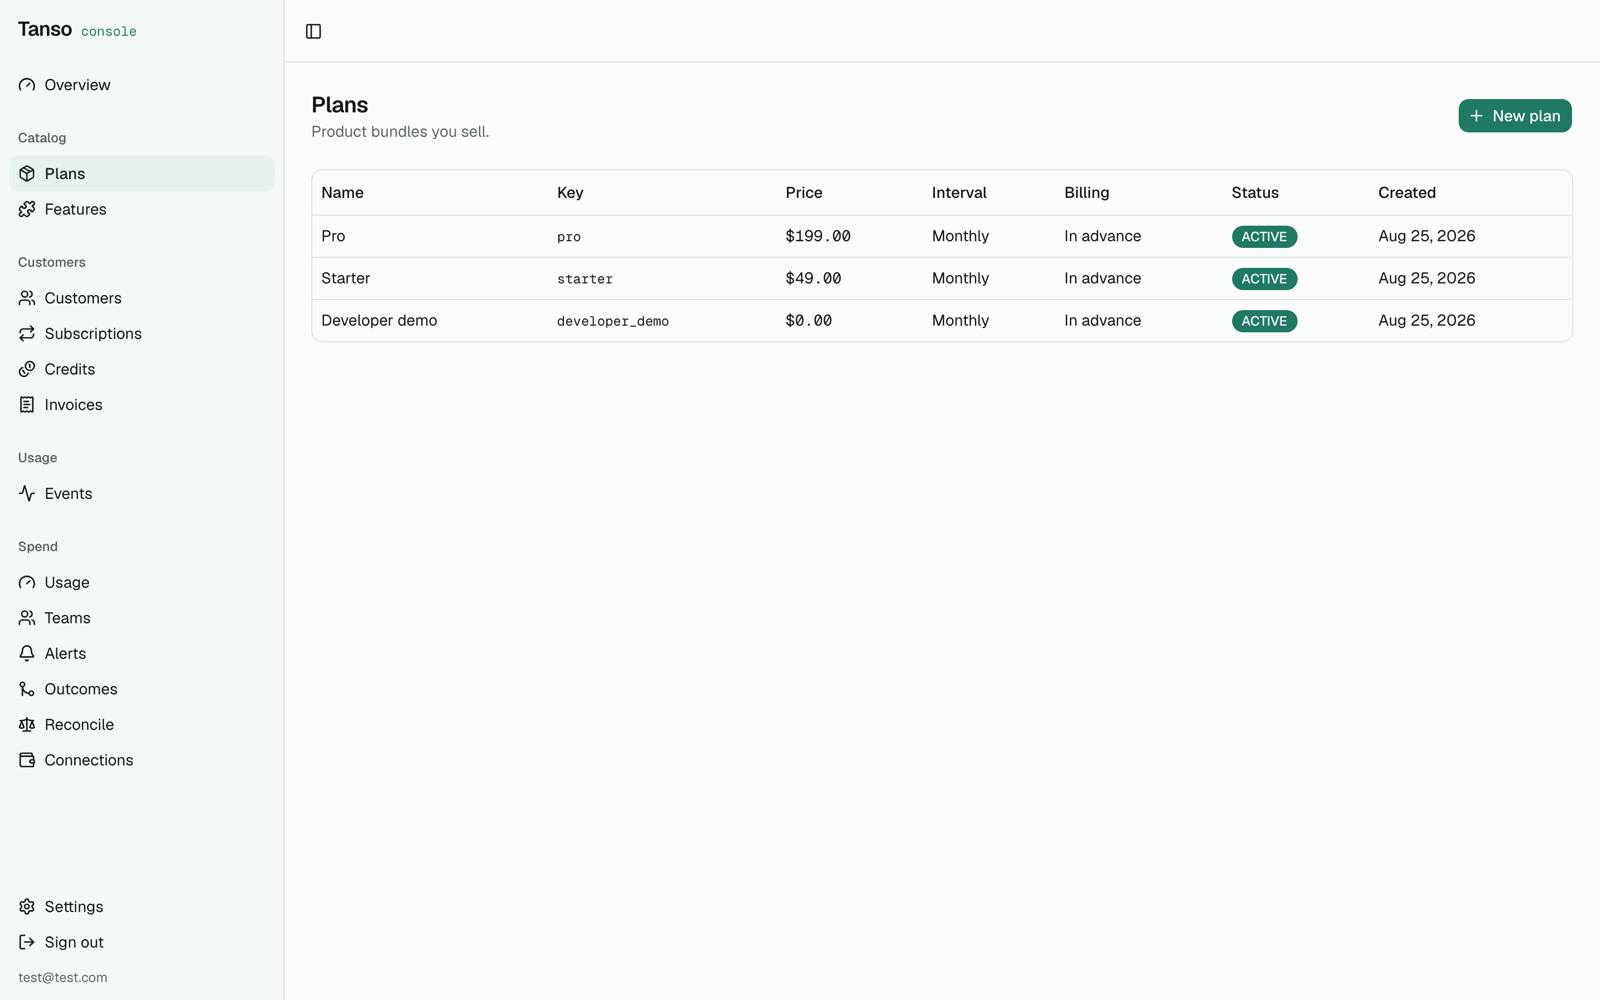
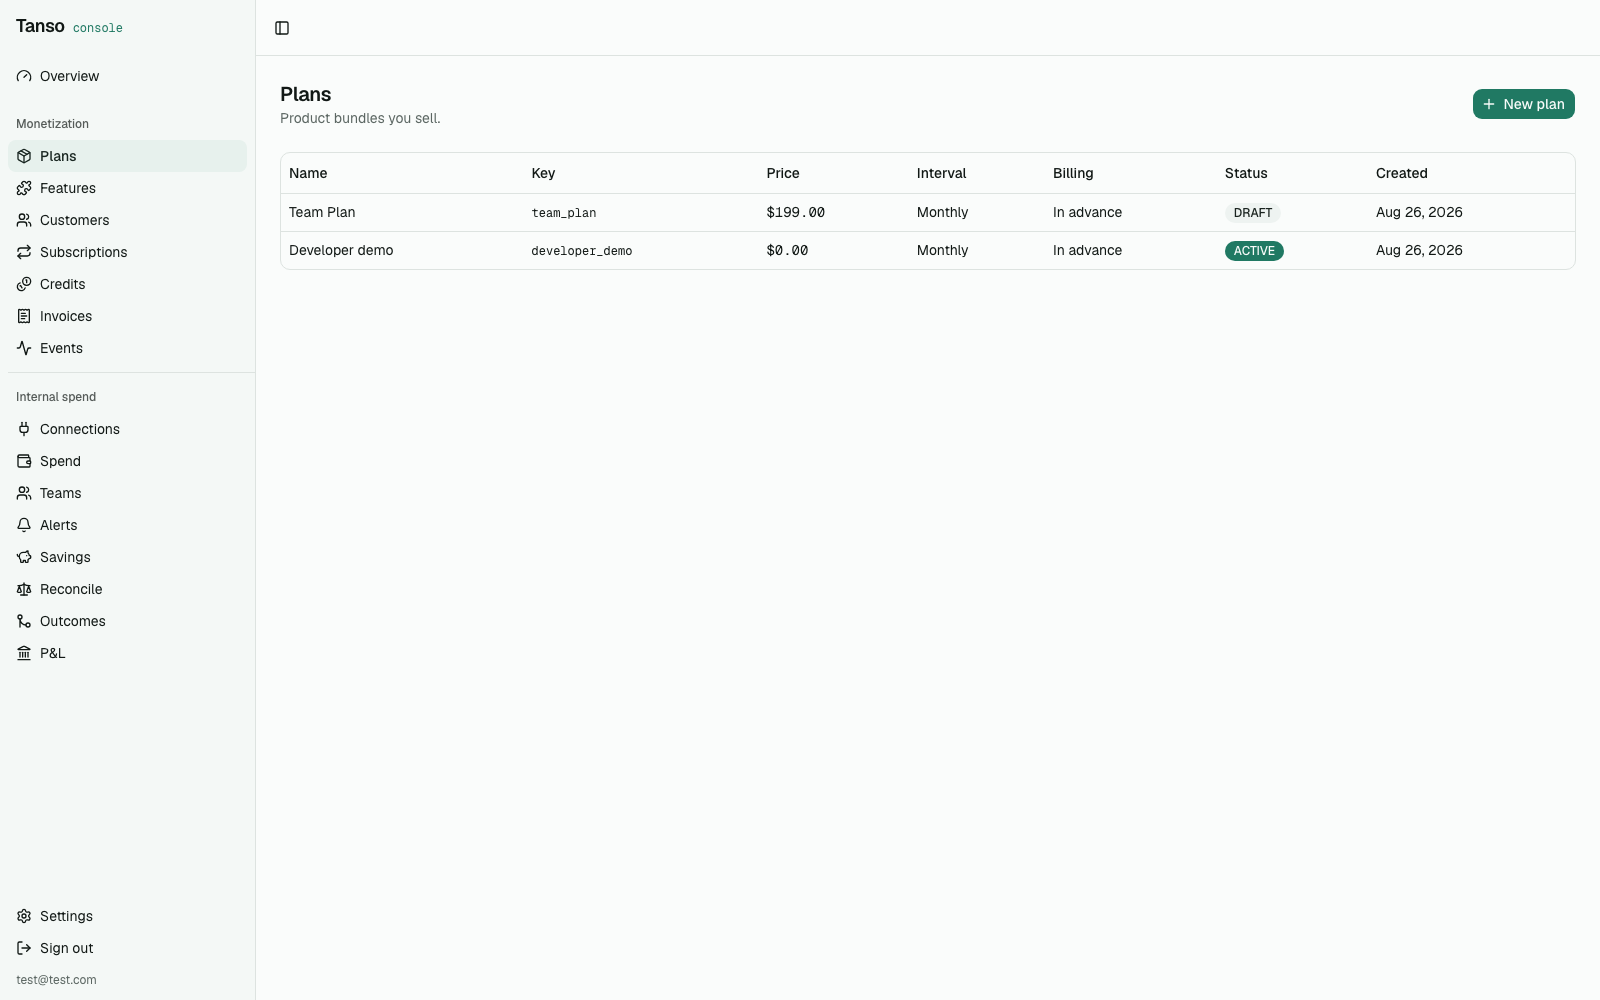
screenshots: every console shot on the new sidebar, console copy uses the half names
Fourteen screenshots still showed the old four-group sidebar. All seventeen
are recaptured from one seeded instance: two vendors plus a LiteLLM proxy,
five units with rules, budgets that fired every alert kind, a bumped Block
budget enforced at the gateway, eight outcomes, and a linked feature so P&L
has a row. The unit sheet and the switched-off notices said "serve-side" and
"build side"; they now say Monetization and Internal spend like everything
else.

diff --git a/ui/app/(console)/spend/outcomes/page.tsx b/ui/app/(console)/spend/outcomes/page.tsx
@@ -78,7 +78,7 @@ export default function SpendOutcomesPage() {
   if (isBuildSideOff(sources.error)) {
     return (
       <p className="text-sm text-muted-foreground">
-        The build side is switched off on this install
+        Internal spend is switched off on this install
         (APP_MODULES_BUILD_ENABLED=false).
       </p>
     )
@@ -220,7 +220,7 @@ export default function SpendOutcomesPage() {
                     colSpan={8}
                     className="text-center text-muted-foreground"
                   >
-                    No units yet. Create teams under Spend → Teams first.
+                    No units yet. Create teams under Internal spend → Teams first.
                   </TableCell>
                 </TableRow>
               )}

diff --git a/ui/features/spend/queries.ts b/ui/features/spend/queries.ts
@@ -21,7 +21,7 @@ import type {
   SpendPnlReportDto,
 } from "./types"
 
-/** True when the build side is switched off (APP_MODULES_BUILD_ENABLED=false): the server says so with a code, so a wrong API URL is not mistaken for it. */
+/** True when internal spend is switched off (APP_MODULES_BUILD_ENABLED=false): the server says so with a code, so a wrong API URL is not mistaken for it. */
 export function isBuildSideOff(error: unknown): boolean {
   return isModuleOff(error)
 }

diff --git a/ui/features/spend/unit-form.tsx b/ui/features/spend/unit-form.tsx
@@ -185,7 +185,7 @@ export function UnitForm({
               </SelectContent>
             </Select>
             <p className="text-xs text-muted-foreground">
-              The serve-side feature this project built. Spend → P&amp;L puts
+              The monetization feature this project built. Internal spend → P&amp;L puts
               the project&apos;s build cost next to what the feature earns.
             </p>
           </Field>

diff --git a/ui/app/(console)/spend/connections/page.tsx b/ui/app/(console)/spend/connections/page.tsx
@@ -221,7 +221,7 @@ export default function SpendConnectionsPage() {
         </Alert>
       ) : isBuildSideOff(connections.error) ? (
         <p className="text-sm text-muted-foreground">
-          The build side is switched off on this install
+          Internal spend is switched off on this install
           (APP_MODULES_BUILD_ENABLED=false).
         </p>
       ) : (

diff --git a/ui/app/(console)/spend/reconcile/page.tsx b/ui/app/(console)/spend/reconcile/page.tsx
@@ -115,7 +115,7 @@ export default function SpendReconcilePage() {
 
       {isBuildSideOff(report.error) ? (
         <p className="text-sm text-muted-foreground">
-          The build side is switched off on this install
+          Internal spend is switched off on this install
           (APP_MODULES_BUILD_ENABLED=false).
         </p>
       ) : report.error ? (

diff --git a/ui/app/(console)/spend/usage/page.tsx b/ui/app/(console)/spend/usage/page.tsx
@@ -91,7 +91,7 @@ export default function SpendUsagePage() {
 
       {isBuildSideOff(report.error) ? (
         <p className="text-sm text-muted-foreground">
-          The build side is switched off on this install
+          Internal spend is switched off on this install
           (APP_MODULES_BUILD_ENABLED=false).
         </p>
       ) : report.error ? (

diff --git a/ui/app/(console)/spend/savings/page.tsx b/ui/app/(console)/spend/savings/page.tsx
@@ -60,7 +60,7 @@ export default function SpendSavingsPage() {
   if (isBuildSideOff(report.error)) {
     return (
       <p className="text-sm text-muted-foreground">
-        The build side is switched off on this install
+        Internal spend is switched off on this install
         (APP_MODULES_BUILD_ENABLED=false).
       </p>
     )

diff --git a/ui/app/(console)/spend/alerts/page.tsx b/ui/app/(console)/spend/alerts/page.tsx
@@ -60,7 +60,7 @@ export default function SpendAlertsPage() {
   if (isBuildSideOff(alerts.error)) {
     return (
       <p className="text-sm text-muted-foreground">
-        The build side is switched off on this install
+        Internal spend is switched off on this install
         (APP_MODULES_BUILD_ENABLED=false).
       </p>
     )

diff --git a/ui/app/(console)/spend/teams/page.tsx b/ui/app/(console)/spend/teams/page.tsx
@@ -110,7 +110,7 @@ export default function SpendTeamsPage() {
   if (isBuildSideOff(units.error)) {
     return (
       <p className="text-sm text-muted-foreground">
-        The build side is switched off on this install
+        Internal spend is switched off on this install
         (APP_MODULES_BUILD_ENABLED=false).
       </p>
     )

diff --git a/ui/app/(console)/spend/pnl/page.tsx b/ui/app/(console)/spend/pnl/page.tsx
@@ -41,7 +41,7 @@ export default function SpendPnlPage() {
   if (isBuildSideOff(report.error)) {
     return (
       <p className="text-sm text-muted-foreground">
-        The build side is switched off on this install
+        Internal spend is switched off on this install
         (APP_MODULES_BUILD_ENABLED=false).
       </p>
     )
